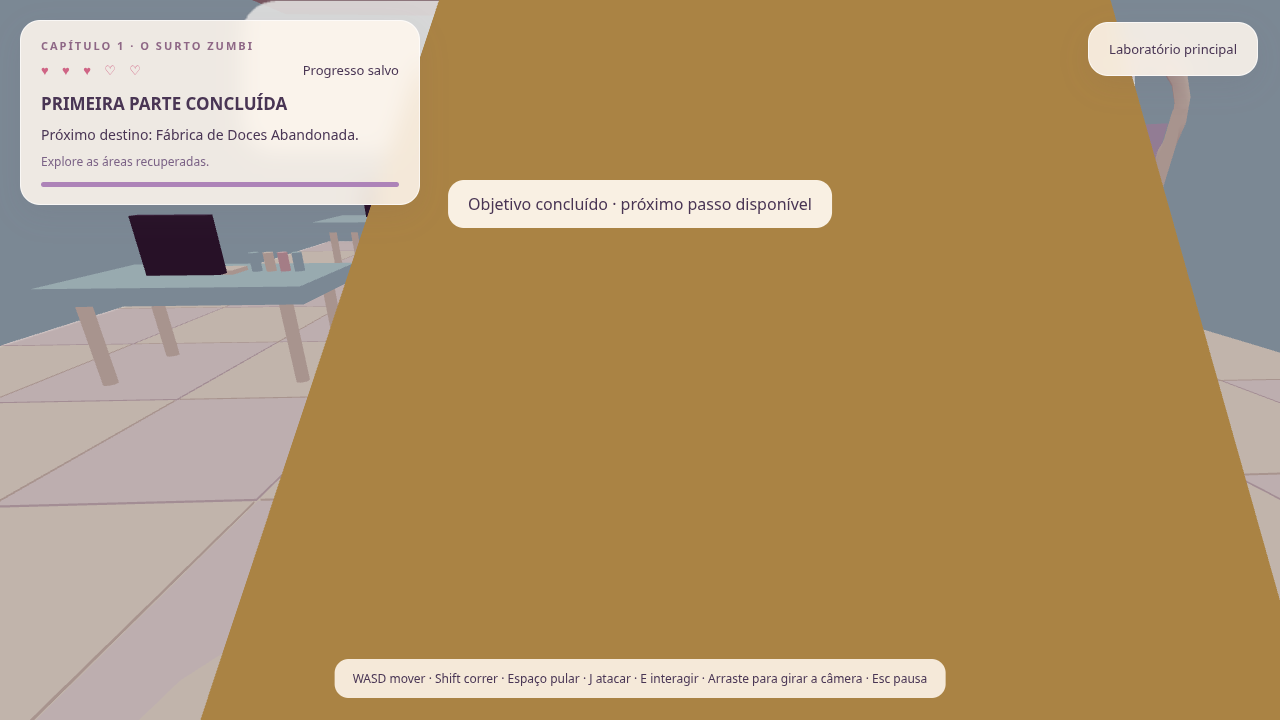
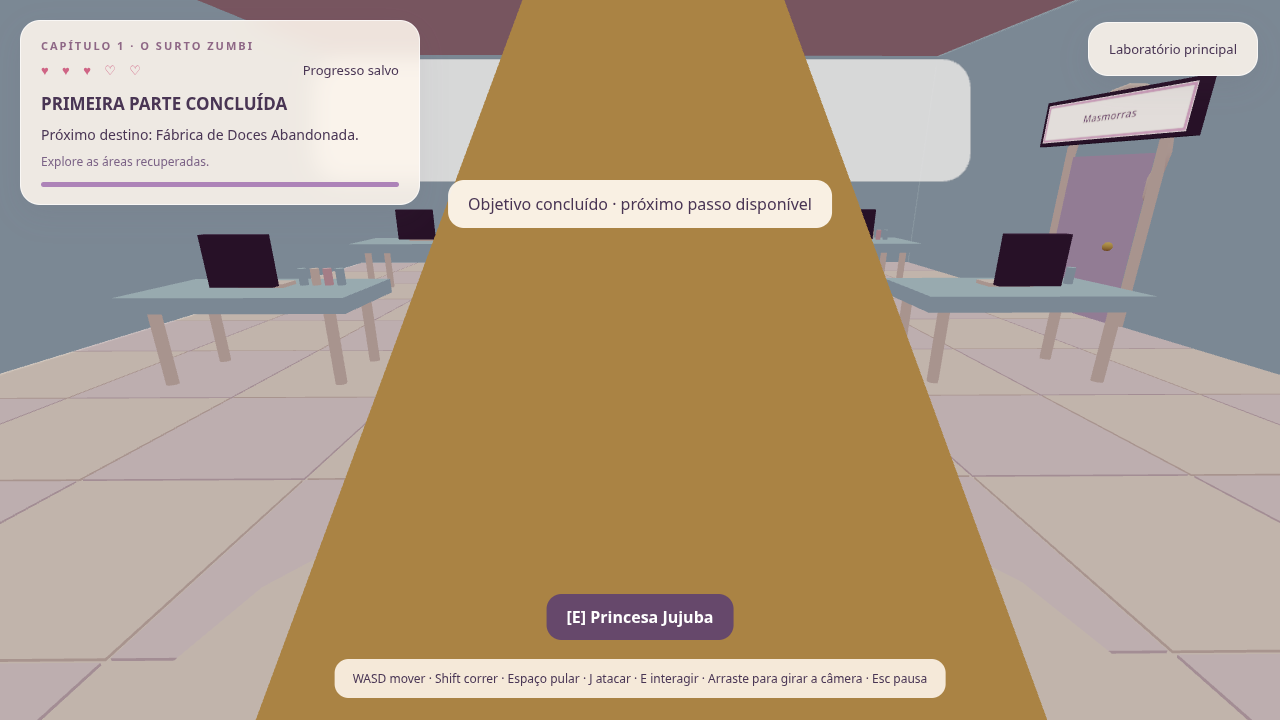
Guide mission doors with arrows, add fixed signs and smooth rendering

diff --git a/web/src/main.js b/web/src/main.js
@@ -5,12 +5,12 @@ import {Progress,quests} from './quests.js';
 const $=id=>document.getElementById(id), keys=new Set(), color={pink:0xf3c9d5,cream:0xf8e8de,lilac:0xd9c9ea,blue:0xb9d9e9,ink:0x614367};
 const canvas=$('game');let renderer;
 try{renderer=new T.WebGLRenderer({canvas,antialias:true,powerPreference:'high-performance'});}catch(e){$('dialogue').textContent='Seu navegador não conseguiu iniciar o 3D. Ative a aceleração gráfica ou tente Chrome/Edge atualizado.';throw e;}
-renderer.setPixelRatio(Math.min(devicePixelRatio,1.5));renderer.shadowMap.enabled=true;renderer.shadowMap.type=T.PCFSoftShadowMap;renderer.toneMapping=T.ACESFilmicToneMapping;renderer.toneMappingExposure=1.05;
+renderer.setPixelRatio(Math.min(devicePixelRatio,2));renderer.shadowMap.enabled=true;renderer.shadowMap.type=T.PCFSoftShadowMap;renderer.toneMapping=T.ACESFilmicToneMapping;renderer.toneMappingExposure=1.05;
 const scene=new T.Scene();scene.background=new T.Color(0xb9d9e9);scene.fog=new T.Fog(0xb9d9e9,90,190);
 const camera=new T.PerspectiveCamera(65,innerWidth/innerHeight,.08,220);scene.add(new T.HemisphereLight(0xfff7f0,0xa18698,1.5));
 const sun=new T.DirectionalLight(0xfff2df,2);sun.position.set(20,50,30);sun.castShadow=true;sun.shadow.mapSize.set(1024,1024);sun.shadow.camera.left=-30;sun.shadow.camera.right=30;sun.shadow.camera.top=30;sun.shadow.camera.bottom=-30;sun.shadow.normalBias=.05;scene.add(sun);
 let world=new T.Group();scene.add(world);const actorRoot=new T.Group();scene.add(actorRoot);
-const shapes={box:new T.BoxGeometry(1,1,1),sphere:new T.SphereGeometry(.5,12,8),cylinder:new T.CylinderGeometry(1,1,1,16),cone:new T.ConeGeometry(1,1,16),ring:new T.TorusGeometry(.45,.065,6,20)};
+const shapes={plaque:new T.PlaneGeometry(3.25,.72),box:new T.BoxGeometry(1,1,1),sphere:new T.SphereGeometry(.5,12,8),cylinder:new T.CylinderGeometry(1,1,1,16),cone:new T.ConeGeometry(1,1,16),ring:new T.TorusGeometry(.45,.065,6,20)};
 const mats=new Map(), labels=new Map();
 let buildingStatic=false,staticMeshes=[];
 function mat(c){const k=String(c);if(!mats.has(k))mats.set(k,new T.MeshStandardMaterial({color:c,roughness:.85}));return mats.get(k);}
@@ -21,8 +21,39 @@ const cyl=(x,y,z,r,h,c,p)=>mesh('cylinder',x,y,z,r,h,r,c,p);
 let roomLabels=[],solids=[],floors=[],ramps=[],interactions=[],zombies=[],room='main_hall',mode='start',progress=new Progress(),roof=false,checkpoint='main_hall',puzzle=0,noticeUntil=0,alarmTime=0,enemySerial=0,audio,originalCastle=null,modelPromise=null,modelState='';
 let lite=!['http:','https:'].includes(location.protocol)||new URLSearchParams(location.search).has('lite'),fallbackCastle=null;
 let yaw=0,pitch=.3,clock=0,attackCD=0,hurtCD=0,hp=5,jumpRequest=false,grounded=false,vy=0,walkTime=0,elapsed=0;
+const renderPrevious=new T.Vector3();let missionArrow=null;
 const player=new T.Group(),jake=new T.Group();actorRoot.add(player,jake);let facing=new T.Vector3(0,0,-1);
 function label(text,x,y,z,p=world){if(!labels.has(text)){const c=document.createElement('canvas');c.width=512;c.height=96;const ctx=c.getContext('2d');ctx.fillStyle='rgba(255,247,238,.88)';ctx.beginPath();ctx.roundRect(1,1,510,94,22);ctx.fill();ctx.fillStyle='#614367';ctx.font='bold 26px system-ui';ctx.textAlign='center';ctx.textBaseline='middle';ctx.fillText(text,256,48,490);labels.set(text,new T.SpriteMaterial({map:new T.CanvasTexture(c),depthTest:true}));}const sprite=new T.Sprite(labels.get(text));sprite.position.set(x,y,z);sprite.scale.set(3.8,.72,1);p.add(sprite);roomLabels.push(sprite);return sprite;}
+function doorSign(text,node){
+ const key='sign:'+text;
+ if(!labels.has(key)){
+  const c=document.createElement('canvas');c.width=1024;c.height=256;
+  const ctx=c.getContext('2d');ctx.fillStyle='#F8E8DE';ctx.fillRect(0,0,1024,256);
+  ctx.strokeStyle='#B783A4';ctx.lineWidth=18;ctx.strokeRect(12,12,1000,232);
+  ctx.fillStyle='#614367';ctx.textAlign='center';ctx.textBaseline='middle';
+  let size=68;do{ctx.font=`bold ${size}px system-ui`;size-=2;}while(ctx.measureText(text).width>940&&size>24);
+  ctx.fillText(text,512,128);
+  const texture=new T.CanvasTexture(c);texture.colorSpace=T.SRGBColorSpace;texture.anisotropy=Math.min(8,renderer.capabilities.getMaxAnisotropy());
+  labels.set(key,new T.MeshBasicMaterial({map:texture}));
+ }
+ // Positive local Z faces the room, with the board clear of the wall.
+ box(0,3.65,.18,3.4,.85,.16,color.ink,node);
+ const plate=new T.Mesh(shapes.plaque,labels.get(key));plate.position.set(0,3.65,.27);node.add(plate);
+ node.userData.sign=text;
+}
+function updateMissionArrow(){
+ if(!missionArrow){missionArrow=new T.Group();scene.add(missionArrow);
+ const material=new T.MeshBasicMaterial({color:0xffd34f});
+ const stem=new T.Mesh(new T.CylinderGeometry(.09,.09,.5,8),material);stem.position.y=.45;missionArrow.add(stem);
+ const tip=new T.Mesh(new T.ConeGeometry(.28,.4,12),material);tip.rotation.z=Math.PI;missionArrow.add(tip);
+ }
+ const next=nextDoorTarget();const point=next?interactions.find(p=>p.kind==='door'&&p.target===next):interactions.find(p=>p.event===expected());
+ missionArrow.visible=mode==='game'&&!!progress.current&&!!point;
+ if(point){missionArrow.position.copy(point.pos);if(point.kind==='door')missionArrow.position.addScaledVector(point.inward,.8);
+ missionArrow.position.y=point.pos.y+(point.kind==='door'?3.6:3.4)+Math.sin(elapsed*3)*.12;
+ missionArrow.userData.target=point.target||point.event;
+ }else missionArrow.userData.target=null;
+}
 function character(parent,kind='candy',c=color.blue){
  const figure=new T.Group();parent.add(figure);
  if(kind==='jake'){sphere(0,.6,0,.9,1.1,.7,0xe4b85a,figure);sphere(0,1.07,-.08,.9,.55,.65,0xe4b85a,figure);for(const x of [-.22,.22]){sphere(x,1.13,-.33,.18,.18,.1,color.ink,figure);sphere(x,.16,0,.25,.3,.3,0xe4b85a,figure);}sphere(0,1,-.42,.22,.18,.17,color.ink,figure);return figure;}
@@ -107,7 +138,7 @@ function buildRoom(id,from='city'){
   for(const dx of [-1.05,1.05])cyl(dx,1.6,0,.11,3.2,color.cream,node);
   mesh('ring',0,3,0,2.4,2.4,1,color.cream,node);sphere(.6,1.4,.2,.16,.16,.16,0xe1c270,node);
   const title=door.target==='city'?'Saída do castelo':rooms[door.target].title;
-  label(door.target==='secret'?'Estante antiga':title,0,3.8,0,node);
+  doorSign(door.target==='secret'?'Estante antiga':title,node);
   interactions.push({kind:'door',title,target:door.target,pos:new T.Vector3(x,y+1,z),inward});
  }
  const arrival=interactions.find(p=>p.target===from)||interactions.find(p=>p.kind==='door');
@@ -136,7 +167,7 @@ function changeRoom(id,from=room){keys.clear();jumpRequest=false;world.traverse(
  buildingStatic=true;staticMeshes=[];
  if(id==='outside')buildOutside();else buildRoom(id,from);
  buildingStatic=false;batchStatic();
- buildEvents();jake.position.copy(player.position).add(new T.Vector3(1,0,1));syncHUD();}
+ buildEvents();renderPrevious.copy(player.position);jake.position.copy(player.position).add(new T.Vector3(1,0,1));syncHUD();}
 function expected(){return progress.current?.[0]||'';}
 function buildEvents(){
  const e=expected();
@@ -228,7 +259,15 @@ function step(dt){clock+=dt;attackCD=Math.max(0,attackCD-dt);hurtCD=Math.max(0,h
 function updateCamera(dt){const target=player.position.clone().add(new T.Vector3(0,1.1,0));const direction=new T.Vector3(Math.sin(yaw)*Math.cos(pitch),Math.sin(pitch),Math.cos(yaw)*Math.cos(pitch));let distance=5;
  const ray=new T.Ray(target,direction);for(const s of solids){const hit=ray.intersectBox(new T.Box3(s.min,s.max),new T.Vector3());if(hit)distance=Math.min(distance,Math.max(.65,hit.distanceTo(target)-.25));}
  const desired=target.clone().addScaledVector(direction,distance);if(rooms[room])desired.y=Math.min(desired.y,rooms[room].height-.4);camera.position.lerp(desired,1-Math.exp(-dt*12));camera.lookAt(target);}
-function route(){if(room==='outside')return 'Janela → sacadas → telhados → pátio → portão lateral';const e=expected(),target=['alarm','guard','hall_kill','defense_kill','debrief'].includes(e)?'main_hall':'laboratory';if(room===target)return 'Objetivo nesta área · procure os anéis dourados';const prev={[room]:null},queue=[room];while(queue.length){const at=queue.shift();for(const d of rooms[at]?.doors||[]){if(['city','secret','dungeon','tree','amber'].includes(d.target)||d.target in prev)continue;prev[d.target]=at;queue.push(d.target);}}if(!(target in prev))return 'Explore o castelo';let n=target;while(prev[n]&&prev[n]!==room)n=prev[n];return 'Próxima porta: '+rooms[n].title;}
+function nextDoorTarget(){
+ if(room==='outside'||!progress.current)return null;
+ const target=['alarm','guard','hall_kill','defense_kill','debrief'].includes(expected())?'main_hall':'laboratory';
+ if(room===target)return null;
+ const prev={[room]:null},queue=[room];
+ while(queue.length){const at=queue.shift();for(const d of rooms[at]?.doors||[]){if(['city','secret','dungeon','tree','amber'].includes(d.target)||d.target in prev)continue;prev[d.target]=at;queue.push(d.target);}}
+ if(!(target in prev))return null;let next=target;while(prev[next]&&prev[next]!==room)next=prev[next];return next;
+}
+function route(){if(room==='outside')return 'Janela → sacadas → telhados → pátio → portão lateral';const next=nextDoorTarget();return next?'Siga a seta amarela → '+rooms[next].title:'Objetivo nesta área · siga a seta ou os anéis dourados';}
 function syncHUD(){const c=progress.current;$('life').textContent=Array.from({length:5},(_,i)=>i<hp?'♥':'♡').join(' ');$('mission').textContent=c?`MISSÃO ${progress.q+1} · ${quests[progress.q][0]}`:'PRIMEIRA PARTE CONCLUÍDA';$('objective').textContent=c?`${c[2]} · ${progress.n}/${c[1]}`:'Próximo destino: Fábrica de Doces Abandonada.';$('route').textContent=c?route():'Explore as áreas recuperadas.';$('fill').style.width=`${progress.q/quests.length*100}%`;$('location').textContent=room==='outside'?'Sacadas, telhados e pátio':rooms[room].title;}
 const SAVE='reino-doce-browser-v1';
 function save(){try{localStorage.setItem(SAVE,JSON.stringify({version:1,progress:progress.snapshot(),room:checkpoint,roof}));$('saved').textContent='Progresso salvo';return true;}catch{$('saved').textContent='Salvamento indisponível';return false;}}
@@ -247,5 +286,5 @@ for(const b of document.querySelectorAll('[data-key]')){b.addEventListener('poin
 for(const b of document.querySelectorAll('[data-action]'))b.onclick=()=>{if(mode!=='game')return;if(b.dataset.action==='jump')jumpRequest=true;if(b.dataset.action==='attack')attack();if(b.dataset.action==='interact')interact();};
 function resize(){renderer.setSize(innerWidth,innerHeight,false);camera.aspect=innerWidth/innerHeight;camera.updateProjectionMatrix();}addEventListener('resize',resize);resize();
 changeRoom('main_hall','city');camera.position.set(2,3,10);menu();
-let then=performance.now(),accumulator=0;function frame(now){const dt=Math.min(.1,(now-then)/1000);then=now;elapsed+=dt;if(mode==='game'){accumulator+=dt;let n=0;while(accumulator>=1/60&&n++<6){step(1/60);accumulator-=1/60;}if(n>6)accumulator=0;}else accumulator=0;updateCamera(dt);for(const sprite of roomLabels)sprite.visible=camera.position.distanceTo(sprite.getWorldPosition(new T.Vector3()))>2.4;renderer.render(scene,camera);requestAnimationFrame(frame);}requestAnimationFrame(frame);
-if(new URLSearchParams(location.search).has('qa'))window.__qa={state:()=>({room,mode,hp,grounded,clock,camera:camera.position.toArray(),direction:camera.getWorldDirection(new T.Vector3()).toArray(),angles:[yaw,pitch],drawCalls:renderer.info.render.calls,position:player.position.toArray(),progress:progress.snapshot(),event:expected(),zombies:zombies.map(e=>({id:e.id,hp:e.health,position:e.node.position.toArray(),state:e.state})),modelState}),fixture(event,id){progress=new Progress();while(progress.current&&expected()!==event)progress.accept(expected());roof=false;checkpoint=id;changeRoom(id);resume();},place(x,y,z){player.position.set(x,y,z);vy=0;},point(event){const p=interactions.find(p=>p.event===event||p.target===event);if(!p)return null;player.position.copy(p.pos);player.position.y-=p.kind==='door'?1:0;if(p.kind==='door')player.position.addScaledVector(p.inward,1.5);else player.position.z+=1.1;vy=0;return p.title;},strikeAt(id){const e=zombies.find(z=>z.id===id);if(!e)return false;player.position.copy(e.node.position).add(new T.Vector3(0,0,1.3));facing.set(0,0,-1);player.rotation.y=0;return true;},setCamera(a){yaw=a;},save,read:savedData,step,attack,visit:(id,from)=>changeRoom(id,from),model:()=>originalCastle,async original(){lite=false;const m=await loadCastle();if(m&&room==='outside'){world.remove(fallbackCastle);world.add(m);}return !!m;},collision:()=>({solids:solids.length,floors:floors.length,doorCount:interactions.filter(p=>p.kind==='door').length,support:supportAt(player.position.x,player.position.z,player.position.y+.3),spawnBlocked:solids.some(s=>overlap(s,player.position.x,player.position.z))})};
+let then=performance.now(),accumulator=0;function frame(now){const dt=Math.min(.1,(now-then)/1000);then=now;elapsed+=dt;if(mode==='game'){accumulator+=dt;let n=0;while(accumulator>=1/60&&n++<6){renderPrevious.copy(player.position);step(1/60);accumulator-=1/60;}if(n>6)accumulator=0;}else accumulator=0;const physicalPosition=player.position.clone();if(mode==='game'&&renderPrevious.distanceToSquared(physicalPosition)<4)player.position.lerpVectors(renderPrevious,physicalPosition,Math.min(1,accumulator*60));updateCamera(dt);updateMissionArrow();for(const sprite of roomLabels)sprite.visible=camera.position.distanceTo(sprite.getWorldPosition(new T.Vector3()))>2.4;renderer.render(scene,camera);player.position.copy(physicalPosition);requestAnimationFrame(frame);}requestAnimationFrame(frame);
+if(new URLSearchParams(location.search).has('qa'))window.__qa={state:()=>({room,mode,hp,grounded,clock,camera:camera.position.toArray(),direction:camera.getWorldDirection(new T.Vector3()).toArray(),angles:[yaw,pitch],drawCalls:renderer.info.render.calls,position:player.position.toArray(),progress:progress.snapshot(),event:expected(),zombies:zombies.map(e=>({id:e.id,hp:e.health,position:e.node.position.toArray(),state:e.state})),modelState,nextDoor:nextDoorTarget(),arrow:missionArrow?.visible?missionArrow.userData.target:null,signs:interactions.filter(p=>p.kind==='door').map(p=>p.title),pixelRatio:renderer.getPixelRatio()}),fixture(event,id){progress=new Progress();while(progress.current&&expected()!==event)progress.accept(expected());roof=false;checkpoint=id;changeRoom(id);resume();},place(x,y,z){player.position.set(x,y,z);vy=0;},point(event){const p=interactions.find(p=>p.event===event||p.target===event);if(!p)return null;player.position.copy(p.pos);player.position.y-=p.kind==='door'?1:0;if(p.kind==='door')player.position.addScaledVector(p.inward,1.5);else player.position.z+=1.1;vy=0;return p.title;},strikeAt(id){const e=zombies.find(z=>z.id===id);if(!e)return false;player.position.copy(e.node.position).add(new T.Vector3(0,0,1.3));facing.set(0,0,-1);player.rotation.y=0;return true;},setCamera(a){yaw=a;},save,read:savedData,step,attack,visit:(id,from)=>changeRoom(id,from),model:()=>originalCastle,async original(){lite=false;const m=await loadCastle();if(m&&room==='outside'){world.remove(fallbackCastle);world.add(m);}return !!m;},collision:()=>({solids:solids.length,floors:floors.length,doorCount:interactions.filter(p=>p.kind==='door').length,support:supportAt(player.position.x,player.position.z,player.position.y+.3),spawnBlocked:solids.some(s=>overlap(s,player.position.x,player.position.z))})};

diff --git a/web/docs/NAVIGATION_UPDATE.md b/web/docs/NAVIGATION_UPDATE.md
@@ -1,0 +1,19 @@
+# Orientação, placas e movimento
+
+As portas agora possuem placas 3D com moldura, textura de texto e orientação fixa para dentro do cômodo. A face da placa fica afastada da parede; o texto não é mais um sprite que gira para a câmera.
+
+Uma seta amarela aponta para a próxima porta do caminho da missão. O caminho é recalculado por busca em largura no grafo de salas e preserva as restrições de progressão. Na sala do objetivo, a seta indica a interação correspondente quando disponível. Combates e plataformas continuam usando os objetivos do HUD e os anéis existentes.
+
+Na primeira missão, o caminho é Grande salão → Galeria do térreo → Cozinha real → Laboratório principal. As missões que exigem retorno ao salão invertem a orientação automaticamente.
+
+O desenho do personagem e o alvo da câmera agora usam interpolação entre os passos de física de 60 Hz. O estado físico é restaurado após desenhar, preservando colisões e progressão. A resolução acompanha a densidade da tela até 2×, antes limitada a 1,5×. Não havia um efeito de motion blur no código; estas mudanças tratam nitidez e irregularidade visual do movimento. A sensação de borrão no computador do jogador ainda precisa ser reavaliada por ele. Renderizar em 2× pode aumentar o custo em telas de alta densidade.
+
+## Validação
+
+`npm run build` e `npm run test:unit` passaram (3 testes unitários).
+
+`GAME_URL=http://127.0.0.1:4174/ npm run test:navigation` verifica a cadeia de portas usando E, seta no objetivo local, caminho de retorno, resolução 2×, movimento real por teclado e ausência de erros JavaScript. A captura real está em `door-guidance.png`.
+
+Os testes de navegador aceitam `GAME_URL` para validar a compilação correta sem reutilizar um servidor antigo.
+
+Regressão executada na compilação atual: 10 verificações de navegador e 6 de aceitação passaram, incluindo as nove missões, combate, saltos, 24 salas, salvamento, pausa, versão offline e controles de toque. A navegação direta por `file://` continua registrada separadamente como bloqueada pelo ambiente.
